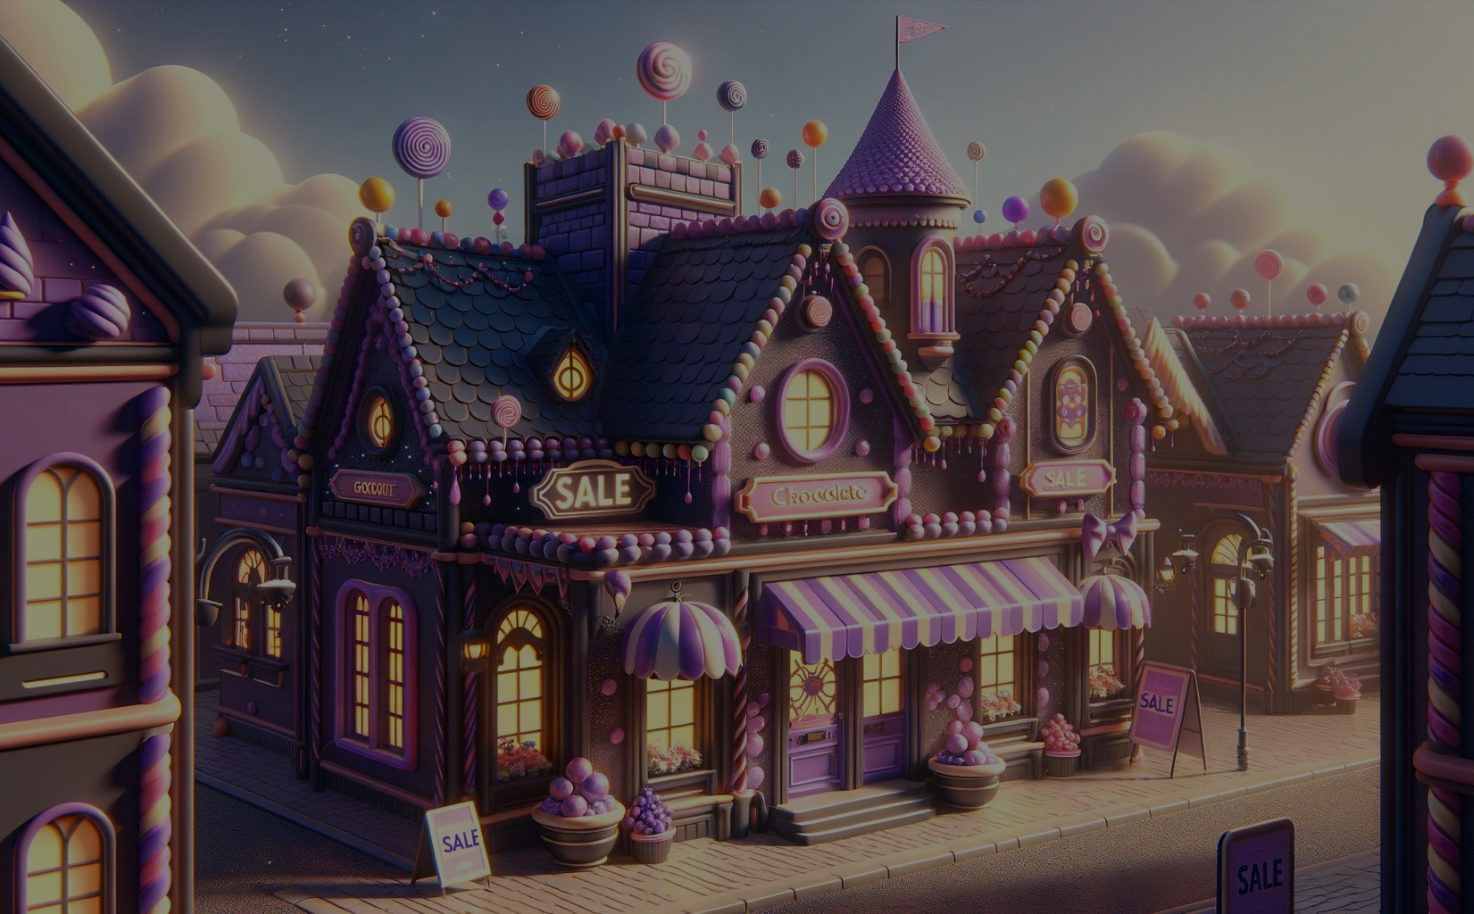
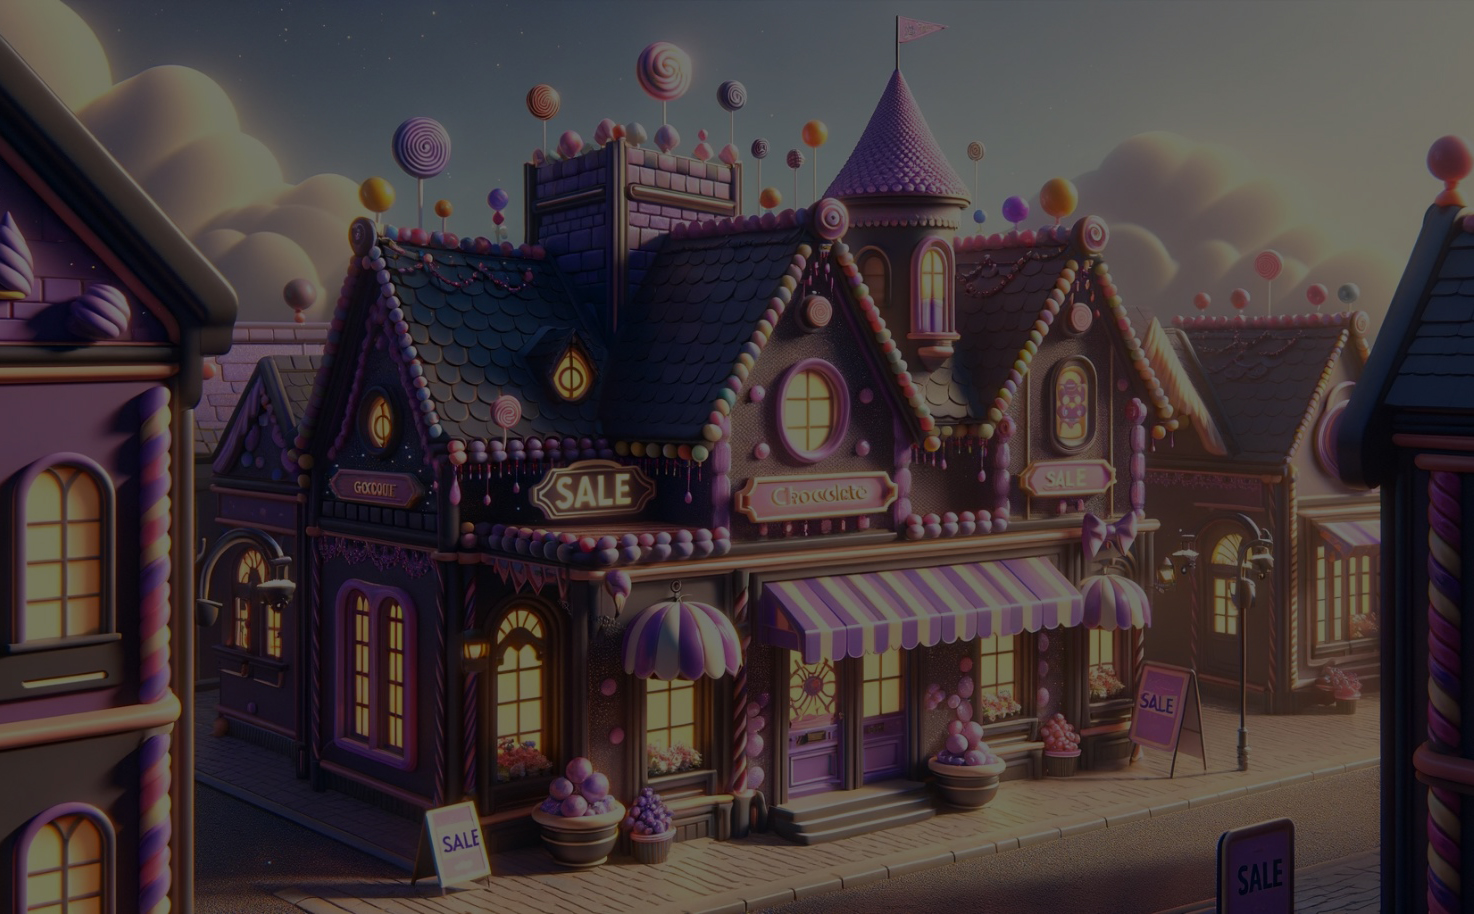
new background

diff --git a/styles/globals.css b/styles/globals.css
@@ -2,8 +2,8 @@ html,
 body {
   min-height: 100%;
   /* background: linear-gradient(180deg, #172726 -41.9%, #0b0d0e 50%); */
-  background-image: url('../public/images/sale2.jpg');
-  background-size: cover;
+  background-image: url('../public/images/sale1.jpg');
+  background-size: 100% 100%;
 
   background-repeat: no-repeat;
   background-position: center;

diff --git a/src/navigation/horizontal/index.ts b/src/navigation/horizontal/index.ts
@@ -11,7 +11,7 @@ const navigation = (): HorizontalNavItemsType => {
     {
       title: 'Bridge',
       icon: 'bridge',
-      path: 'https://jumper-exchange-git-ui-wonka-grapefi-s-team.vercel.app/',
+      path: 'https://bridge.chocolatefactory.gg',
       externalLink: true,
       openInNewTab: true
     }
